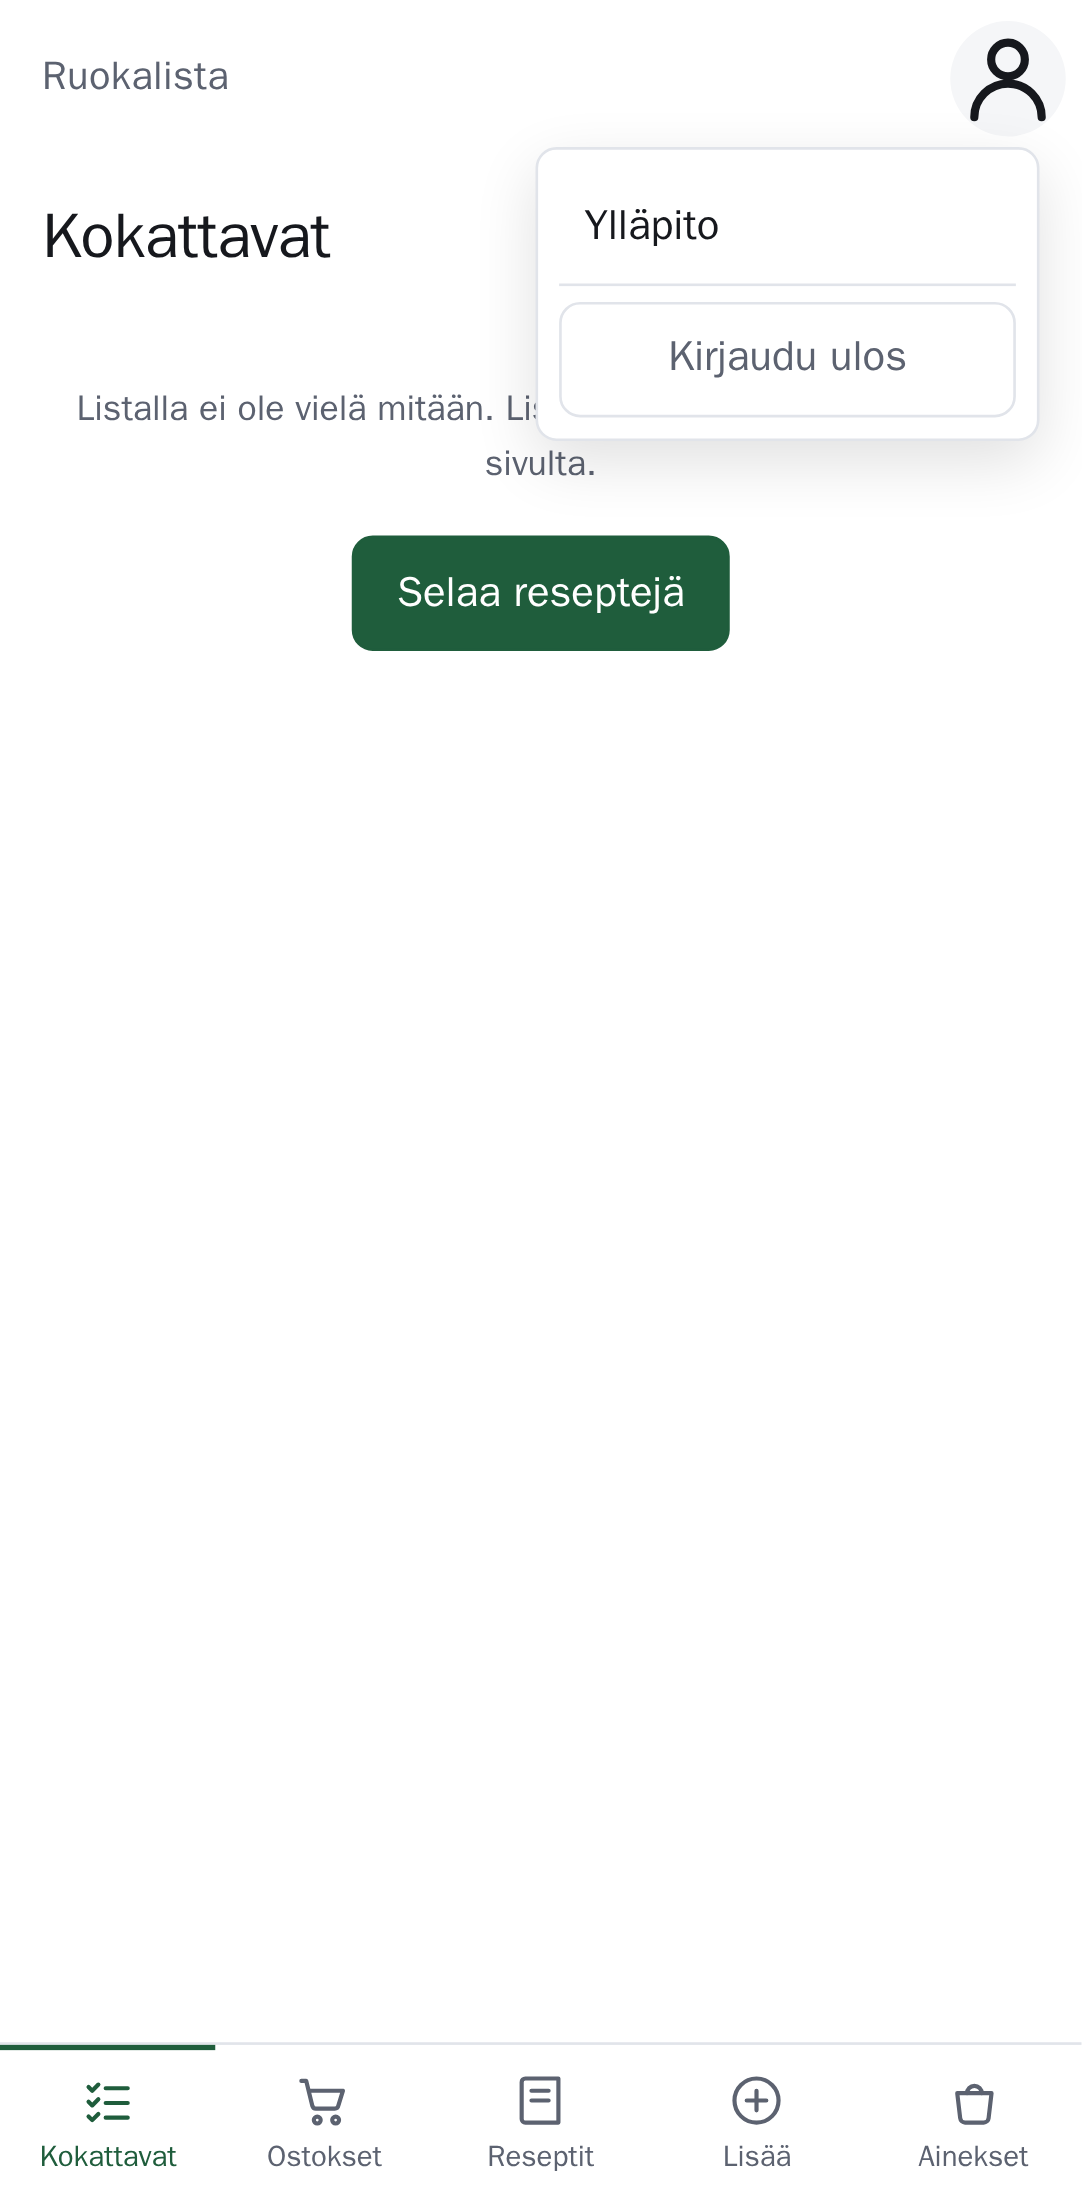
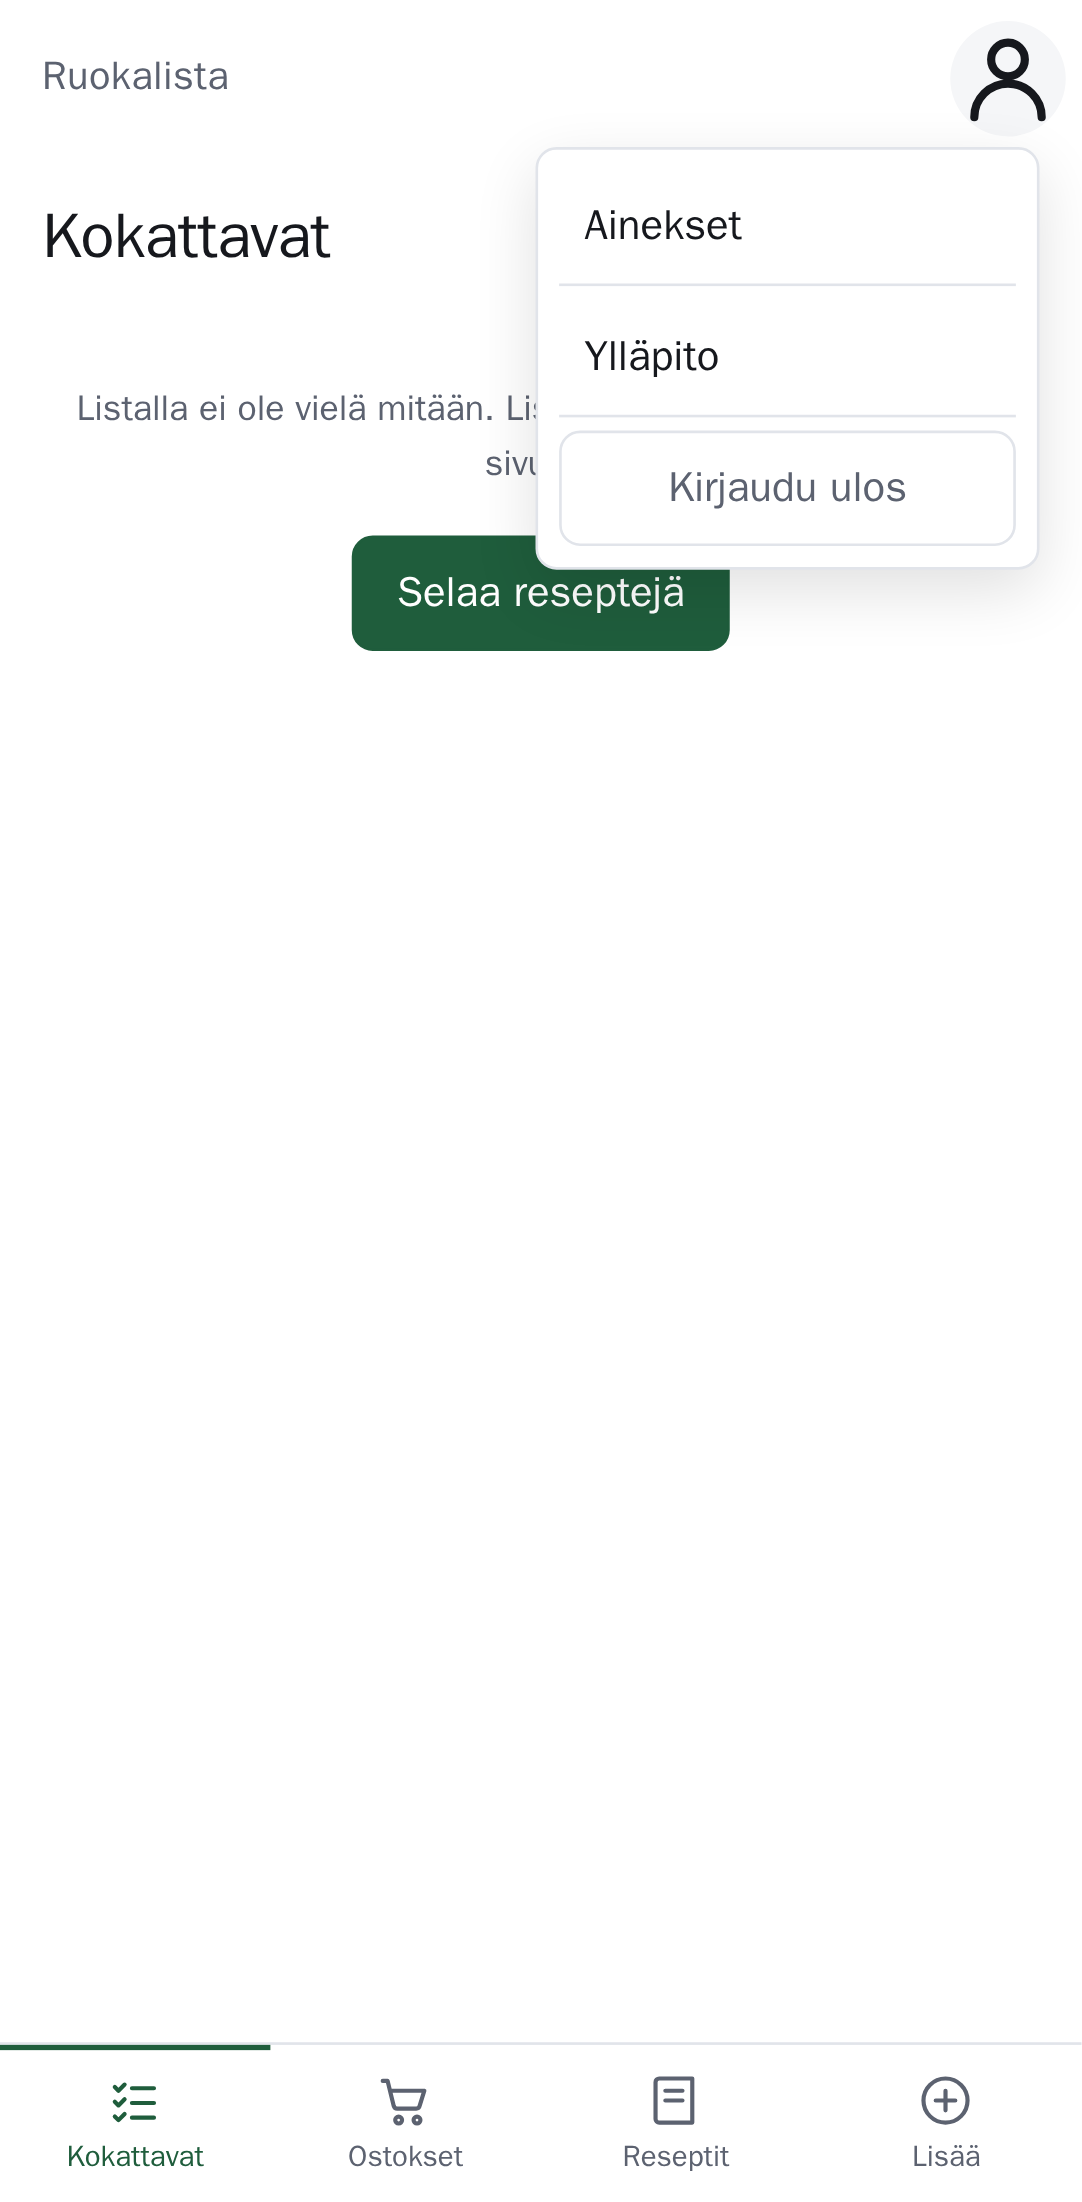
Move Ainekset from the bottom tabs into the account menu (#357) (#359)
The ingredient list is visited rarely, so it now sits in the account menu
next to Ylläpito, for every member, and is marked current there on its own
screen. The bottom bar keeps four tabs.

diff --git a/src/html.ts b/src/html.ts
@@ -1610,8 +1610,10 @@ export function saveBar(
 }
 
 /**
- * Which bottom-tab destination a screen belongs to. `signed-out` is the shell
- * for a browser with nowhere to navigate yet — no tabs, no sign-out.
+ * Which destination a screen belongs to. Most are bottom tabs; `ingredients`
+ * lives in the account menu instead (#357), since a household visits it rarely.
+ * `signed-out` is the shell for a browser with nowhere to navigate yet — no
+ * tabs, no sign-out.
  */
 export type Shell =
   | "cook-list"
@@ -1635,8 +1637,7 @@ const TABS: { shell: Shell; href: string; label: string; icon: string }[] = [
     shell: "shopping",
     href: "/ostoslista",
     label: "Ostokset",
-    // A trolley, not a basket: the Ainekset tab is already a jar-shaped
-    // container, and two containers side by side read as the same tab twice.
+    // A trolley: it says "the shop" more plainly than a basket or a bag.
     icon: `<circle cx="9.5" cy="20" r="1.4"/><circle cx="17" cy="20" r="1.4"/><path d="M3 4h2l2.5 10.2a1.5 1.5 0 0 0 1.5 1.1h7.6a1.5 1.5 0 0 0 1.5-1.2L20 8H6"/>`,
   },
   {
@@ -1650,12 +1651,6 @@ const TABS: { shell: Shell; href: string; label: string; icon: string }[] = [
     href: "/intake",
     label: "Lisää",
     icon: `<circle cx="12" cy="12" r="9"/><path d="M12 8v8M8 12h8"/>`,
-  },
-  {
-    shell: "ingredients",
-    href: "/ingredients",
-    label: "Ainekset",
-    icon: `<path d="M5 9h14l-1.2 10.2a2 2 0 0 1-2 1.8H8.2a2 2 0 0 1-2-1.8z"/><path d="M9 9a3 3 0 0 1 6 0"/>`,
   },
 ];
 
@@ -1692,16 +1687,20 @@ export interface Viewer {
 
 /**
  * The account affordance: small, out of the way, and the way out of the app —
- * and, for an admin, the one way in to the admin panel. It lives here rather
+ * and the way in to the rarely visited screens: the ingredient list for every
+ * member (#357) and, for an admin, the admin panel. It lives here rather
  * than on the home screen so that every screen offers it, which is what #106
  * asked for and what #94 deliberately deferred.
  */
-function accountMenu(viewer: Viewer | null): Raw {
+function accountMenu(viewer: Viewer | null, current: Shell): Raw {
   return html`<details class="account">
   <summary role="button" aria-label="Tili">
     ${icon(`<circle cx="12" cy="8" r="3.5"/><path d="M5 20a7 7 0 0 1 14 0"/>`)}
   </summary>
   <div class="account-menu">
+    <a href="/ingredients"${current === "ingredients"
+      ? raw(' aria-current="page"')
+      : ""}>Ainekset</a>
     ${viewer?.isAdmin ? html`<a href="/admin">Ylläpito</a>` : ""}
     <form method="post" action="/auth/signout">
       <button type="submit" class="quiet">Kirjaudu ulos</button>
@@ -1750,7 +1749,7 @@ function pageHead(title: string, shell: Shell, viewer: Viewer | null): Raw {
 ${signedIn
     ? html`<header class="topbar">
   <a class="wordmark" href="/">Ruokalista</a>
-  ${accountMenu(viewer)}
+  ${accountMenu(viewer, shell)}
 </header>`
     : ""}
 <main>`;

diff --git a/tests/shell.spec.ts b/tests/shell.spec.ts
@@ -26,13 +26,12 @@ test.describe("signed in", () => {
     await page.goto("/");
 
     const tabs = page.locator("nav.tabs a");
-    await expect(tabs).toHaveCount(5);
+    await expect(tabs).toHaveCount(4);
 
     for (const [label, heading] of [
       ["Ostokset", "Ostoslista"],
       ["Reseptit", "Reseptit"],
       ["Lisää", "Lisää resepti"],
-      ["Ainekset", "Ainekset"],
       ["Kokattavat", "Kokattavat"],
     ] as const) {
       await page.locator("nav.tabs").getByRole("link", { name: label }).click();
@@ -40,6 +39,25 @@ test.describe("signed in", () => {
         page.getByRole("heading", { level: 1, name: heading, exact: true }),
       ).toBeVisible();
     }
+  });
+
+  // Ainekset is visited rarely, so it sits in the account menu with Ylläpito
+  // rather than taking a bottom tab (#357).
+  test("the ingredient list is in the account menu", async ({ page }) => {
+    await page.goto("/");
+    await expect(
+      page.locator("nav.tabs").getByRole("link", { name: "Ainekset" }),
+    ).toHaveCount(0);
+
+    await page.getByRole("button", { name: "Tili" }).click();
+    await page.getByRole("link", { name: "Ainekset" }).click();
+    await expect(
+      page.getByRole("heading", { level: 1, name: "Ainekset", exact: true }),
+    ).toBeVisible();
+    await expect(page.locator(".account-menu a[aria-current=page]")).toHaveText(
+      "Ainekset",
+    );
+    await expect(page.locator("nav.tabs a[aria-current=page]")).toHaveCount(0);
   });
 
   test("the current destination is marked", async ({ page }) => {
@@ -107,8 +125,11 @@ test.describe("signed in", () => {
 
     for (const path of screens) {
       await page.goto(path);
-      await expect(page.locator("nav.tabs a")).toHaveCount(5);
-      await expect(page.locator("nav.tabs a[aria-current=page]")).toHaveCount(1);
+      await expect(page.locator("nav.tabs a")).toHaveCount(4);
+      // Exactly one destination is marked, in the tabs or the account menu.
+      await expect(
+        page.locator("nav.tabs a[aria-current=page], .account-menu a[aria-current=page]"),
+      ).toHaveCount(1);
       await expect(page.getByRole("button", { name: "Tili" })).toBeVisible();
       await expect(page.locator("body.has-tabs")).toHaveCount(1);
     }

diff --git a/tests/screenshots.spec.ts b/tests/screenshots.spec.ts
@@ -1655,6 +1655,7 @@ test.describe("signed in", () => {
     await page.getByRole("button", { name: "Tili" }).click();
     await expect(page.getByRole("button", { name: "Kirjaudu ulos" })).toBeVisible();
     await expect(page.getByRole("link", { name: "Ylläpito" })).toHaveCount(0);
+    await expect(page.getByRole("link", { name: "Ainekset" })).toBeVisible();
     await capture(page, {
       path: `${SHOTS}/28-home-not-admin.png`,
       fullPage: true,
@@ -1673,6 +1674,7 @@ test.describe("signed in as an admin", () => {
     await page.goto("/");
     await page.getByRole("button", { name: "Tili" }).click();
     await expect(page.getByRole("link", { name: "Ylläpito" })).toBeVisible();
+    await expect(page.getByRole("link", { name: "Ainekset" })).toBeVisible();
     await capture(page, {
       path: `${SHOTS}/29-home-admin.png`,
       fullPage: true,

diff --git a/docs/codebase/screens.md b/docs/codebase/screens.md
@@ -8,9 +8,11 @@ The one HTML shell, and the standing rules for what a screen may assume about th
 every interpolated value. `raw()` is the only way past that escaping, so it is
 also the only thing to check when reviewing for injection.
 
-`page()` takes a `Shell` — `week`, `recipes`, `intake`, `ingredients`, or
-`signed-out` — which is the bottom-tab destination the screen belongs to, so an
-inner screen like a recipe still lights up `Reseptit`. Issue #106 proposes that
+`page()` takes a `Shell` — `cook-list`, `shopping`, `recipes`, `intake`,
+`ingredients`, or `signed-out` — which is the destination the screen belongs
+to, so an inner screen like a recipe still lights up `Reseptit`. `ingredients`
+is not a bottom tab: Ainekset sits in the account menu next to Ylläpito (#357),
+and its menu entry is the one marked current. Issue #106 proposes that
 it also take a viewer so the shared account menu can offer the admin panel only
 to an admin. `signed-out` renders no tabs or account button, because there is
 nowhere to navigate yet.
@@ -554,7 +556,7 @@ worked out, because "why does this week need oregano at all" is worth being
 able to answer about a staple too. With an empty cupboard there are no section
 headings at all — one list needs no heading saying it is the list.
 
-There is no sixth bottom tab: the cupboard hangs off the Ainekset screen, which
+There is no tab of its own: the cupboard hangs off the Ainekset screen, which
 is the same ingredients seen another way, and off the `Löytyy` section itself.
 The split rule is `src/pantry.ts::splitByPantry`, tested directly in
 `dev/check-pantry.ts`.
